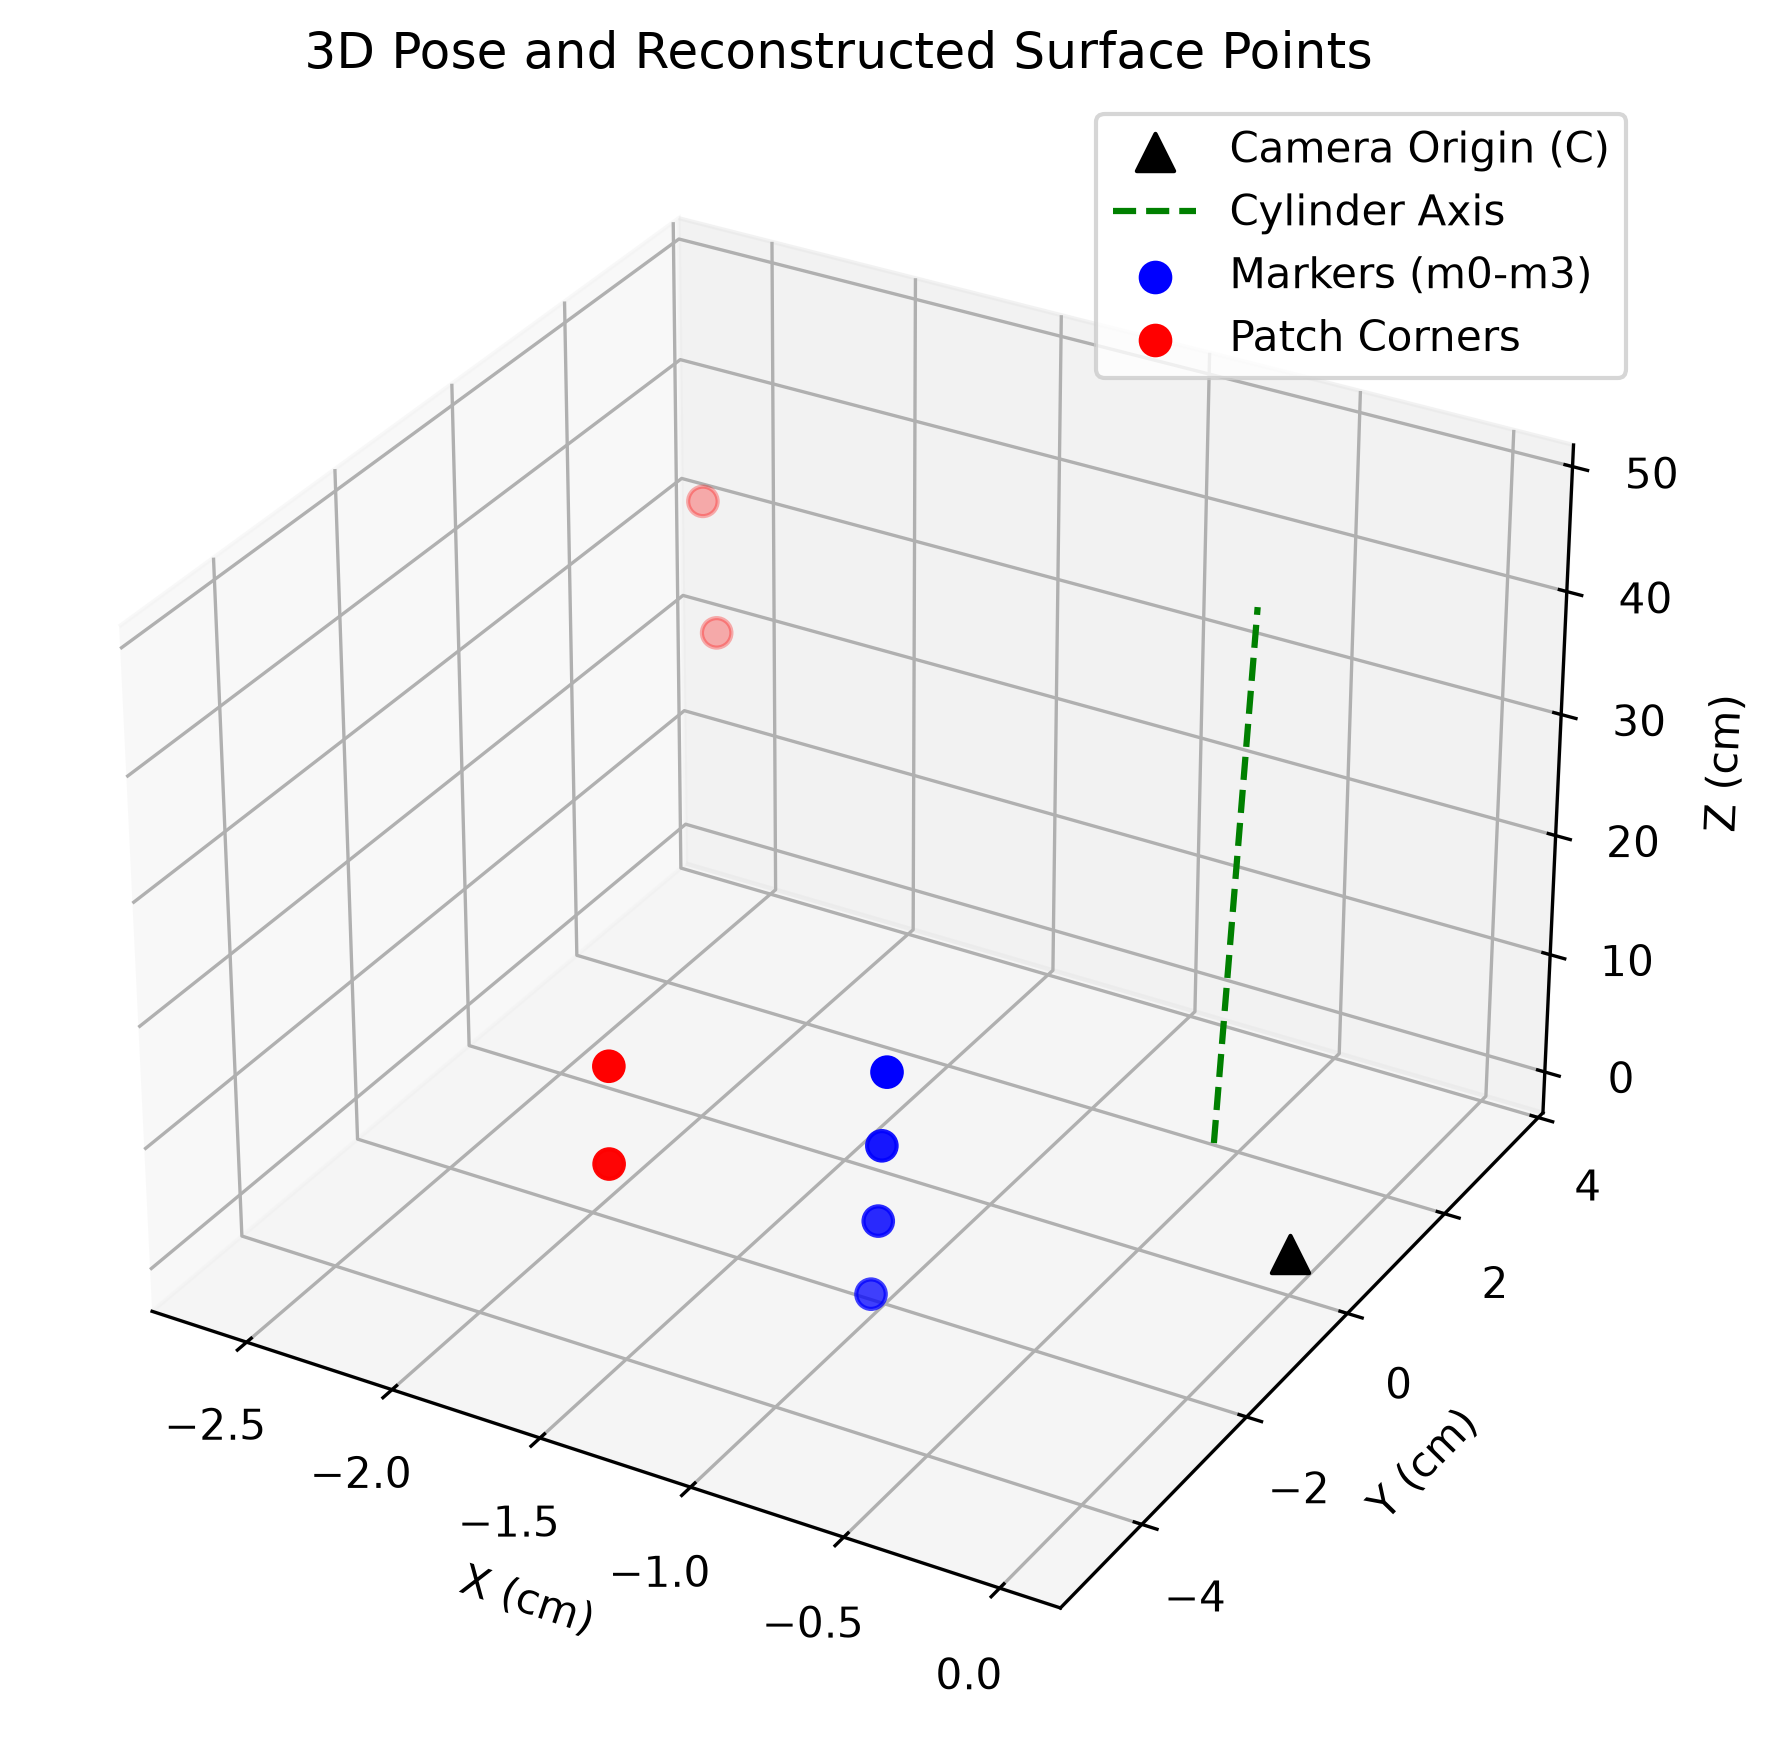
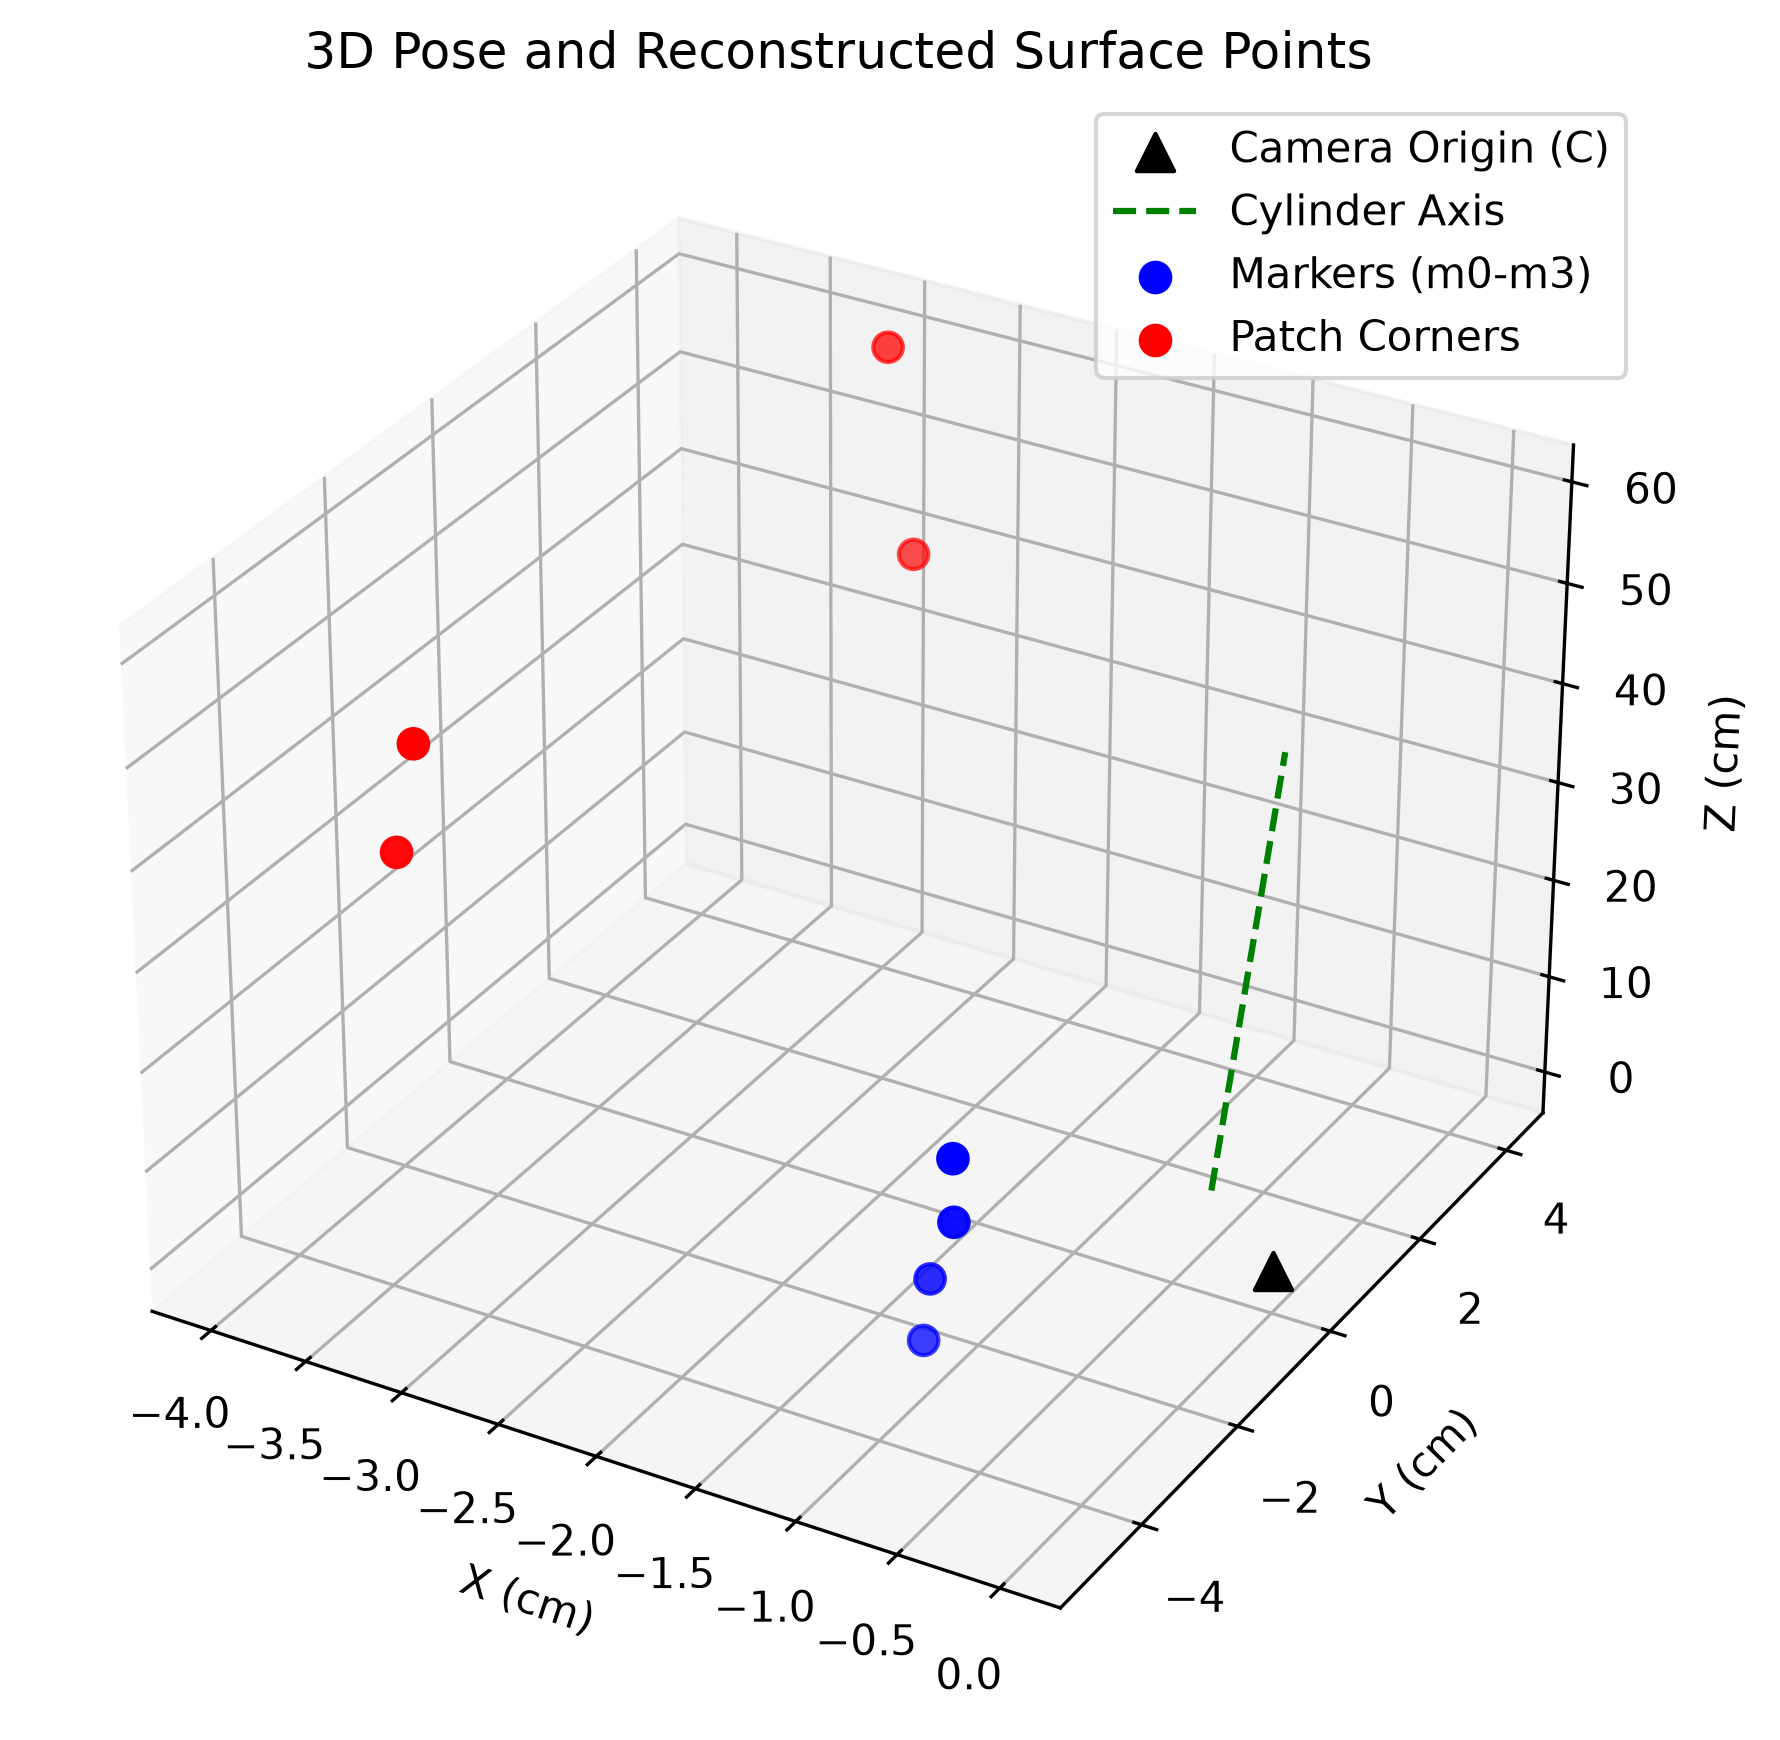
Result to Learn

diff --git a/2D_coordinates_3D_coordinates.py b/2D_coordinates_3D_coordinates.py
@@ -289,9 +289,9 @@ else:
     recon_height = abs(patch_unwrapped['Q'][1] - patch_unwrapped['P'][1])
     recon_rect_area = recon_width * recon_height
 
-    actual_width = 9.30
-    actual_height = 6.90
-    actual_area_cm2 = 64.20
+    actual_width = 5.8 
+    actual_height = 12.5
+    actual_area_cm2 = 72.5
 
     print("\n================ Reconstructed Dimensions & Area ================")
     print(f"Reconstructed Arc Width (s) : {recon_width:6.2f} cm | Actual: {actual_width:6.2f} cm | Error: {abs(recon_width - actual_width):.2f} cm ({(abs(recon_width - actual_width)/actual_width)*100:.2f}%)")
